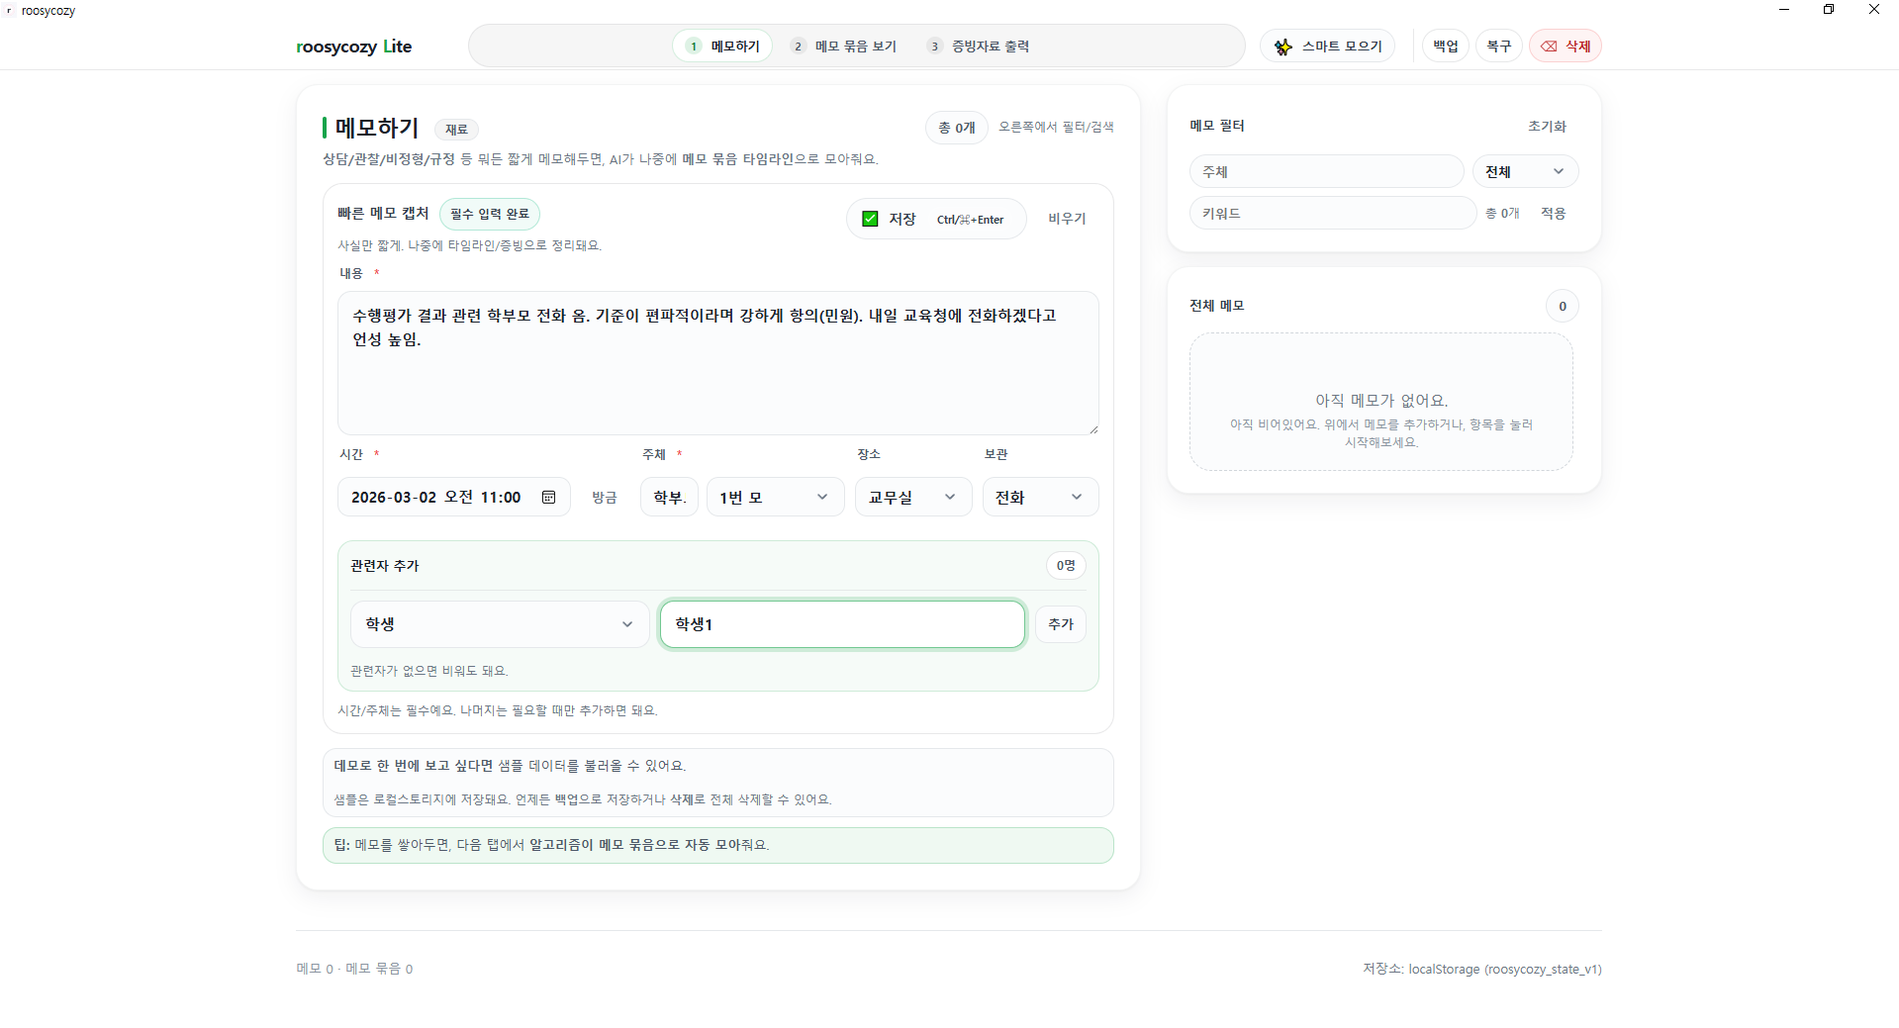
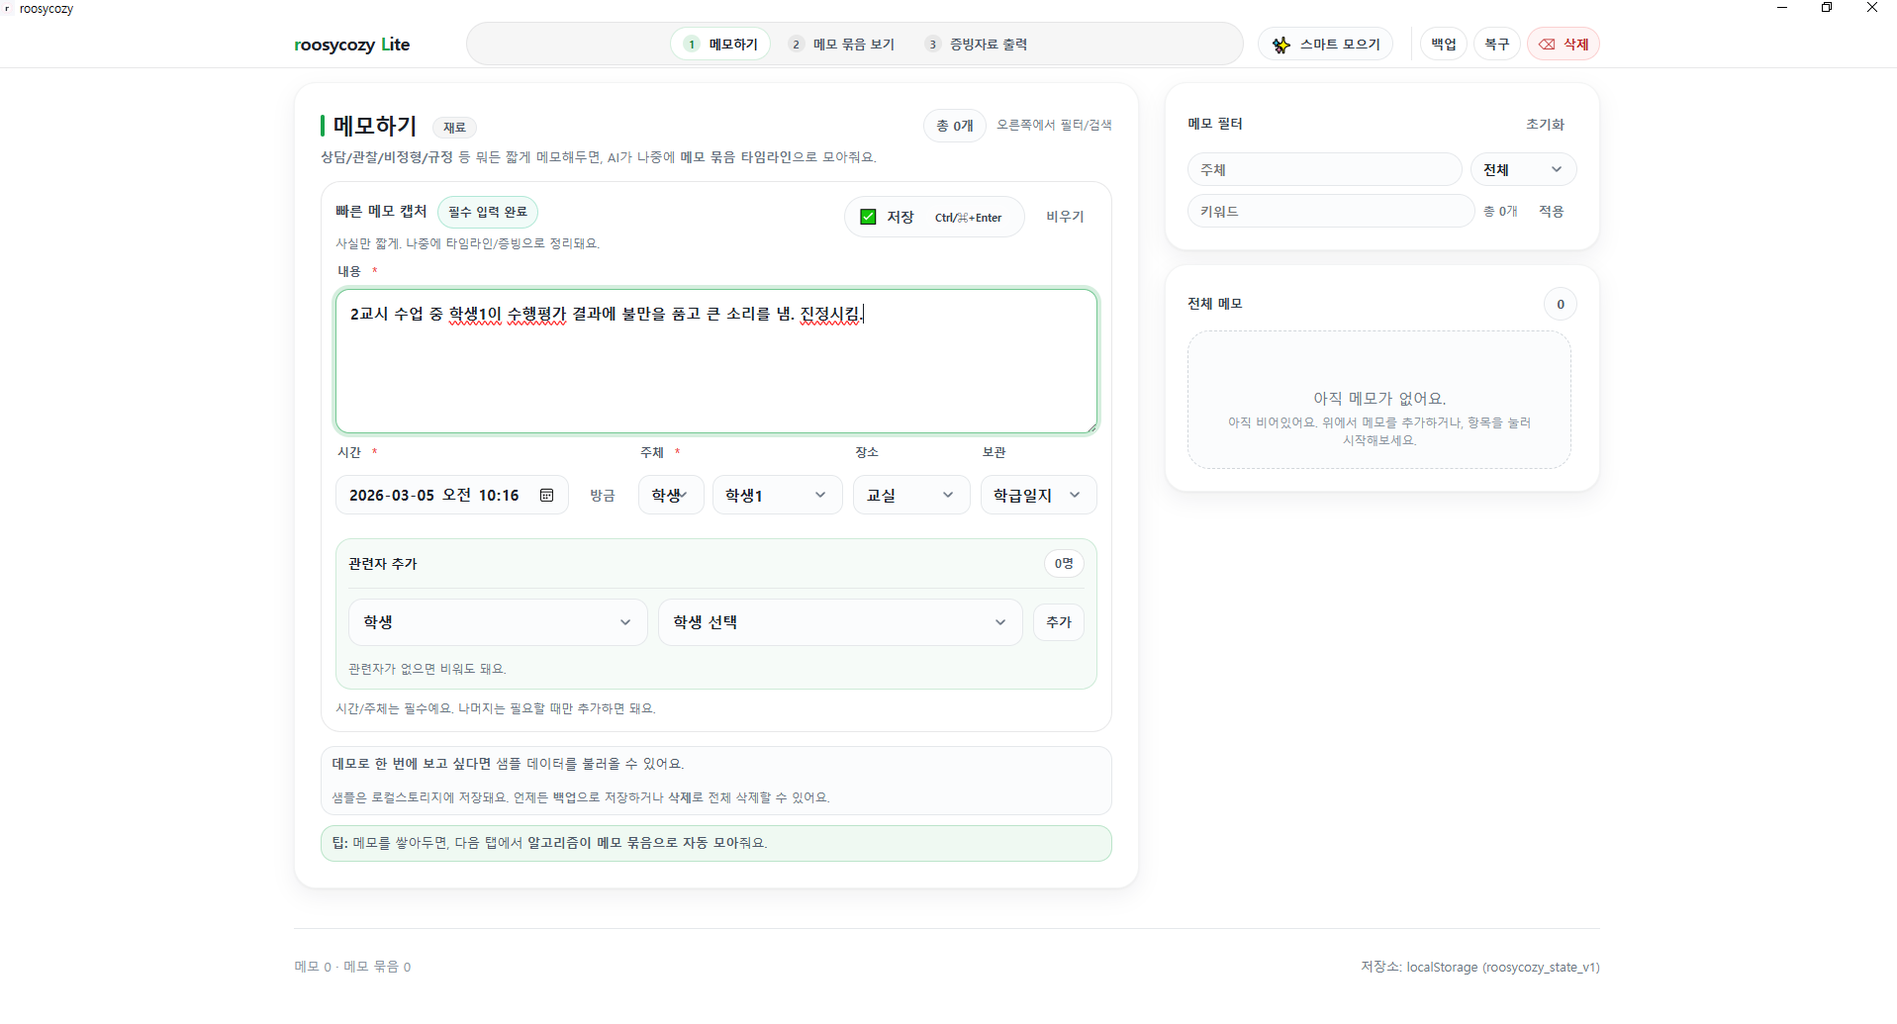
Add files via upload

diff --git a/beta.html b/beta.html
@@ -97,27 +97,21 @@
                 📋 [실전 연습] 이렇게 똑같이 세팅해 보세요!
             </h4>
             <p style="margin: 0 0 15px 0; font-size: 0.9rem; color: #555;">
-                아래 옵션을 설정하고 내용을 복사해서 넣어보세요. 나중에 이 기록이 어떻게 마법처럼 묶이는지 보게 됩니다.
+                사건의 발단이 되는 상황입니다. 아래 옵션을 설정하고 내용을 복사해서 넣어보세요. 나중에 이 기록이 어떻게 마법처럼 묶이는지 보게 됩니다.
             </p>
             <div style="background: #fff; border: 1px solid #ffe082; padding: 15px; border-radius: 8px; font-size: 0.95rem; color: #333;">
                 <div style="margin-bottom: 8px;">
-                    <strong>👤 주체:</strong> 학부모 ➔ <b>'1번 모'</b> 선택 
-                    <span style="font-size:0.8rem; color:#888; margin-left:5px;">(누구의 부모님인지 정확히!)</span>
+                    <strong>👤 주체:</strong> 학생 ➔ <b>'학생1'</b> 선택 
                 </div>
                 <div style="margin-bottom: 8px;">
-                    <strong>📍 장소:</strong> <b>'교무실'</b> 선택 
-                    <span style="font-size:0.8rem; color:#888; margin-left:5px;">(사건이 일어난 장소를 골라주세요)</span>
+                    <strong>📍 장소:</strong> <b>'교실'</b> 선택 
                 </div>
                 <div style="margin-bottom: 8px;">
-                    <strong>📁 보관:</strong> <b>'전화'</b> 선택 
-                    <span style="font-size:0.8rem; color:#888; margin-left:5px;">(어떤 형태의 증빙자료인지 골라주세요)</span>
-                </div>
-                <div style="margin-bottom: 8px;">
-                    <strong>👥 관련자 추가:</strong> 학생 ➔ <b>'학생1'</b> 추가
+                    <strong>📁 보관:</strong> <b>'학급일지'</b> 선택 
                 </div>
                 <div><strong>📝 내용 (복사하세요):</strong><br>
                     <div style="margin-top: 5px; padding: 12px; background: #fafafa; border-radius: 6px; border: 1px solid #eee; font-family: 'Malgun Gothic', sans-serif; line-height: 1.5; color: #000;">
-                        수행평가 결과 관련 학부모 전화 옴. 기준이 편파적이라며 강하게 항의(민원). 내일 교육청에 전화하겠다고 언성 높임.
+                        2교시 수업 중 학생1이 수행평가 결과에 불만을 품고 큰 소리를 냄. 진정시킴.
                     </div>
                 </div>
             </div>
@@ -154,21 +148,22 @@
         <div id="part-2-3" style="display: none; border-top: 1px solid #eee; padding-top: 30px; margin-top: 30px;">
             <h3 style="font-size: 1.1rem; margin-bottom: 15px; color: #444; font-weight: 700;">3. 📌 [추가 미션] 같은 방식으로 2개 더 남겨보기</h3>
             <p style="color: #555; font-size: 0.95rem; margin-bottom: 20px;">
-                첫 번째 기록을 완료하셨습니다. 나중에 AI가 <b>주체가 다른 기록들을 어떻게 하나의 사건으로 묶어내는지</b> 확인하기 위해, 아래 두 가지 상황도 마저 입력해 보세요.<br>
-                <span style="font-size: 0.85rem; color: #888;">(※ 바로 다음 미션으로 넘어가도 무방합니다.)</span>
+                첫 번째 기록을 완료하셨습니다. 나중에 AI가 <b>주체가 다른 기록들을 어떻게 하나의 사건으로 묶어내는지</b> 확인하기 위해, 이어지는 두 가지 상황도 마저 입력해 보세요.<br>
+                <!-- <span style="font-size: 0.85rem; color: #888;">(※ 바로 다음 미션으로 넘어가도 무방합니다.)</span> -->
             </p>
 
             <div style="background: #fff8e1; border: 1px solid #ffca28; border-radius: 12px; padding: 20px; text-align: left; margin-bottom: 20px;">
                 <h4 style="margin: 0 0 10px 0; font-size: 1rem; color: #f57f17; font-weight: 800;">
-                    [메모 A: 사건 발단]
+                    [메모 A: 학부모 전화 항의]
                 </h4>
                 <div style="background: #fff; border: 1px solid #ffe082; padding: 15px; border-radius: 8px; font-size: 0.95rem; color: #333;">
-                    <div style="margin-bottom: 8px;"><strong>👤 주체:</strong> 학생 ➔ <b>'학생1'</b> 선택</div>
-                    <div style="margin-bottom: 8px;"><strong>📍 장소:</strong> <b>'교실'</b> 선택</div>
-                    <div style="margin-bottom: 8px;"><strong>📁 보관:</strong> <b>'학급일지'</b> 선택</div>
+                    <div style="margin-bottom: 8px;"><strong>👤 주체:</strong> 학부모 ➔ <b>'1번 모'</b> 선택 <span style="font-size:0.8rem; color:#888; margin-left:5px;">(누구의 부모님인지 정확히!)</span></div>
+                    <div style="margin-bottom: 8px;"><strong>📍 장소:</strong> <b>'교무실'</b> 선택</div>
+                    <div style="margin-bottom: 8px;"><strong>📁 보관:</strong> <b>'전화'</b> 선택</div>
+                    <div style="margin-bottom: 8px;"><strong>👥 관련자 추가:</strong> 학생 ➔ <b>'학생1'</b> 추가 <span style="font-size:0.8rem; color:#d32f2f; font-weight:bold;">(★가장 중요!)</span></div>
                     <div><strong>📝 내용 (복사하세요):</strong><br>
                         <div style="margin-top: 5px; padding: 12px; background: #fafafa; border-radius: 6px; border: 1px solid #eee; font-family: 'Malgun Gothic', sans-serif; line-height: 1.5; color: #000;">
-                            2교시 수업 중 학생1이 수행평가 결과에 불만을 품고 큰 소리를 냄. 진정시킴.
+                            수행평가 결과 관련 학부모 전화 옴. 기준이 편파적이라며 강하게 항의(민원). 내일 교육청에 전화하겠다고 언성 높임.
                         </div>
                     </div>
                 </div>
@@ -176,7 +171,7 @@
 
             <div style="background: #fff8e1; border: 1px solid #ffca28; border-radius: 12px; padding: 20px; text-align: left; margin-bottom: 20px;">
                 <h4 style="margin: 0 0 10px 0; font-size: 1rem; color: #f57f17; font-weight: 800;">
-                    [메모 B: 후속 조치]
+                    [메모 B: 관리자 보고]
                 </h4>
                 <div style="background: #fff; border: 1px solid #ffe082; padding: 15px; border-radius: 8px; font-size: 0.95rem; color: #333;">
                     <div style="margin-bottom: 8px;"><strong>👤 주체:</strong> 관리자 ➔ <b>'교감'</b> 선택</div>
@@ -193,8 +188,8 @@
 
             <div id="mission-box-2-3" class="check-mission-box" onclick="togglePart(2, 3)">
                 <div class="mission-info">
-                    <strong>☑ 추가 미션까지 모두 입력했나요?</strong>
-                    <div style="font-size:0.85rem; color:#888;">입력했다면 클릭해주세요. (건너뛰어도 무방합니다)</div>
+                    <strong>☑ 추가 메모까지 모두 입력했나요?</strong>
+                    <div style="font-size:0.85rem; color:#888;">입력했다면 클릭해주세요. </div>
                 </div>
                 <div class="check-circle">✔</div>
             </div>
@@ -208,15 +203,175 @@
 
     <div id="step-3" class="mission-card">
         <div class="step-badge">STEP 03</div>
-        <h2 class="mission-title">AI 스마트 메모</h2>
-        <p class="mission-desc">다음 미션 내용이 들어갈 자리입니다.</p>
-        <button class="btn-next active" onclick="nextStep(4)">다음 미션으로 이동 →</button>
+        <h2 class="mission-title">흩어진 기록을 한 곳으로</h2>
+        <p class="mission-desc" style="margin-bottom: 30px;">
+            메모가 아무리 많아도 걱정 없습니다.<br>
+            <strong>'스마트 메모 모으기'</strong>가 AI처럼 관련 기록을 찰떡같이 묶어줍니다.
+        </p>
+
+        <div id="part-3-1">
+            <h3 style="font-size: 1.1rem; margin-bottom: 15px; color: #444; font-weight: 700;">1. 기능 실행하기</h3>
+            <p style="color: #666; font-size: 0.95rem; margin-bottom: 15px;">
+                상단 메뉴에서 <b>[2. 메모 묶음 보기]</b> 탭으로 이동 후,<br>
+                화면에 보이는 <strong>[✨ 스마트 모으기]</strong> 버튼(빨간 박스 중 아무거나)을 클릭하세요.
+            </p>
+            <div class="zoom-container">
+                <img src="스마트 모으기 1.png" alt="스마트 모으기 버튼 클릭">
+            </div>
+            <div id="mission-box-3-1" class="check-mission-box" onclick="togglePart(3, 1)">
+                <div class="mission-info">
+                    <strong>👆 모으기 창을 띄우셨나요?</strong>
+                    <div style="font-size:0.85rem; color:#888;">창이 떴다면 클릭해주세요.</div>
+                </div>
+                <div class="check-circle">✔</div>
+            </div>
+        </div>
+
+        <div id="part-3-2" style="display: none; border-top: 1px solid #eee; padding-top: 30px; margin-top: 30px;">
+            <h3 style="font-size: 1.1rem; margin-bottom: 10px; color: #444; font-weight: 700;">2. AI에게 단서 주기 (★마법의 순간)</h3>
+            
+            <p style="color: #444; margin-bottom: 12px; font-weight: 600; font-size: 0.9rem; letter-spacing: -0.5px; word-break: keep-all;">
+                👇 방금 입력한 3개의 기록을 한 번에 불러옵니다. 아래 정답지처럼 딱 2가지만 입력해 보세요!
+            </p>
+
+            <div style="background: #e3f2fd; border: 1px solid #90caf9; border-radius: 12px; padding: 15px; text-align: left; margin-bottom: 15px;">
+                <h4 style="margin: 0 0 10px 0; font-size: 1rem; color: #1565c0; font-weight: 800;">
+                    🎯 [정답지] 이렇게 세팅하고 모아보세요!
+                </h4>
+                <div style="background: #fff; border: 1px solid #bbdefb; padding: 12px; border-radius: 8px; font-size: 0.9rem; color: #333;">
+                    
+                    <div style="margin-bottom: 10px;">
+                        <strong style="color:#1976d2;">① 누구의 기록을 모을까요? (필수)</strong><br>
+                        ➔ <b>[학생] - [학생1]</b> 선택 후 <b>[추가]</b> 버튼 꾹!<br>
+                        <div style="background:#f0f7ff; border-left: 3px solid #1976d2; padding:6px 10px; margin-top:4px; font-size:0.85rem; color:#444;">
+                            💡 <b>AI의 마법:</b> '학생1'만 골라도 AI가 학부모/교감 기록 등 곁가지 기록까지 싹 다 추적해 옵니다.
+                        </div>
+                    </div>
+                    
+                    <div style="margin-bottom: 10px;">
+                        <strong style="color:#1976d2;">② 어떤 사건인가요? (요약/키워드)</strong><br>
+                        ➔ <b>수행평가 민원</b> (이라고만 치세요)<br>
+                        <div style="background:#f0f7ff; border-left: 3px solid #1976d2; padding:6px 10px; margin-top:4px; font-size:0.85rem; color:#444;">
+                            💡 <b>AI의 마법:</b> 메모에 넣었던 핵심 단어들이 강력한 자석이 되어 흩어진 퍼즐을 쫙 맞춰줍니다.
+                        </div>
+                    </div>
+
+                    <div>
+                        <strong style="color:#1976d2;">③ 옵션 (제목 설정)</strong><br>
+                        ➔ <b>'옵션: 기간 및 제목 직접 설정'</b>을 클릭해서 창을 여세요.<br>
+                        ➔ 제목에 <b>학생1 수행평가 민원 대응</b> 적고 <b>[메모 모으기 시작]</b> 클릭!
+                    </div>
+
+                </div>
+            </div>
+
+            <div class="zoom-container" style="margin-bottom: 15px;">
+                <img src="스마트 모으기 2.png" alt="조건 입력 화면">
+            </div>
+            
+            <div id="mission-box-3-2" class="check-mission-box" onclick="togglePart(3, 2)">
+                <div class="mission-info">
+                    <strong>✍ 정답지대로 세팅하고 모으기 시작을 눌렀나요?</strong>
+                    <div style="font-size:0.85rem; color:#888;">세팅을 마쳤다면 클릭해주세요.</div>
+                </div>
+                <div class="check-circle">✔</div>
+            </div>
+        </div>
+
+        <div id="part-3-3" style="display: none; border-top: 1px solid #eee; padding-top: 30px; margin-top: 30px;">
+            <h3 style="font-size: 1.1rem; margin-bottom: 15px; color: #444; font-weight: 700;">3. 생성 완료!</h3>
+            <p style="color: #666; margin-bottom: 15px; font-size: 0.95rem;">
+                짜잔! <strong>교실 소란, 학부모 전화, 교감 보고</strong>라는 3개의 흩어진 기록이<br>
+                시간 순서대로 완벽하게 하나의 사건으로 묶였습니다.
+            </p>
+
+            <div style="background: #fff8e1; border-left: 4px solid #f57f17; padding: 12px 15px; margin-bottom: 15px; border-radius: 0 8px 8px 0; font-size: 0.9rem; color: #555;">
+                👇 <b>확인 꿀팁:</b> 왼쪽의 타임라인 영역을 <b>아래로 스크롤(마우스 휠 굴리기)</b> 해보세요! 오전에 있었던 교실 소란부터 교감선생님 보고까지 3개의 기록이 모두 엮여있는 모습을 확인하실 수 있습니다.
+            </div>
+
+            <div class="zoom-container" style="margin-bottom: 15px;">
+                <img src="스마트 모으기 3.png" alt="결과 화면">
+            </div>
+            
+            <div id="mission-box-3-3" class="check-mission-box" onclick="togglePart(3, 3)">
+                <div class="mission-info">
+                    <strong>🎉 스크롤을 내려서 3개의 메모가 묶인 걸 모두 확인했나요?</strong>
+                    <div style="font-size:0.85rem; color:#888;">확인했다면 클릭해주세요.</div>
+                </div>
+                <div class="check-circle">✔</div>
+            </div>
+            
+            <button id="btn-next-3" class="btn-next" onclick="nextStep(4)" style="display: none; margin-top: 20px;">
+                마지막 미션(증빙 출력)으로 이동 →
+            </button>
+        </div>
     </div>
 
     <div id="step-4" class="mission-card">
         <div class="step-badge">STEP 04</div>
         <h2 class="mission-title">증빙자료 출력</h2>
-        <button class="btn-next active" onclick="alert('모든 미션 완료! 고생하셨습니다.')">최종 완료</button>
+        <p class="mission-desc" style="margin-bottom: 30px;">
+            로지코지의 핵심은 <b>'선생님의 안전'</b>입니다.<br>
+            모아둔 기록을 클릭 한 번에 공문서 수준의 <b>사건 보고서(PDF)</b>로 출력해 보세요.
+        </p>
+
+        <div id="part-4-1">
+            <h3 style="font-size: 1.1rem; margin-bottom: 15px; color: #444; font-weight: 700;">1. 출력할 묶음 선택하기</h3>
+            <p style="color: #666; font-size: 0.95rem; margin-bottom: 15px;">
+                상단 메뉴에서 <b>[3. 증빙자료 출력]</b> 탭으로 이동하세요.<br>
+                화면 가운데에 뜨는 우리가 방금 만든 <strong>'학생1 수행평가 민원 대응'</strong> 묶음을 클릭해 줍니다.
+            </p>
+            <div class="zoom-container" style="margin-bottom: 15px;">
+                <img src="증빙자료 출력 1.png" alt="출력할 묶음 선택">
+            </div>
+            <div id="mission-box-4-1" class="check-mission-box" onclick="togglePart(4, 1)">
+                <div class="mission-info">
+                    <strong>🖨 출력할 메모 묶음을 클릭하셨나요?</strong>
+                    <div style="font-size:0.85rem; color:#888;">선택했다면 체크해주세요.</div>
+                </div>
+                <div class="check-circle">✔</div>
+            </div>
+        </div>
+
+        <div id="part-4-2" style="display: none; border-top: 1px solid #eee; padding-top: 30px; margin-top: 30px;">
+            <h3 style="font-size: 1.1rem; margin-bottom: 15px; color: #444; font-weight: 700;">2. PDF로 저장하기</h3>
+            <p style="color: #666; margin-bottom: 15px; font-size: 0.95rem;">
+                사건의 경위와 로그가 깔끔하게 정리된 보고서 미리보기가 나타납니다.<br>
+                우측 상단의 <strong>[PDF로 저장]</strong> 녹색 버튼을 클릭하세요!
+            </p>
+            <div class="zoom-container" style="margin-bottom: 15px;">
+                <img src="증빙자료 출력 2.png" alt="PDF 저장 버튼 클릭">
+            </div>
+            <div id="mission-box-4-2" class="check-mission-box" onclick="togglePart(4, 2)">
+                <div class="mission-info">
+                    <strong>💾 PDF로 저장을 완료하셨나요?</strong>
+                    <div style="font-size:0.85rem; color:#888;">저장했다면 체크해주세요.</div>
+                </div>
+                <div class="check-circle">✔</div>
+            </div>
+        </div>
+
+        <div id="part-4-3" style="display: none; border-top: 1px solid #eee; padding-top: 30px; margin-top: 30px;">
+            <h3 style="font-size: 1.1rem; margin-bottom: 15px; color: #444; font-weight: 700;">3. 최종 보고서 확인</h3>
+            <p style="color: #666; margin-bottom: 15px; font-size: 0.95rem;">
+                저장된 <strong>사건 보고서 PDF 파일</strong>을 열어보세요.<br>
+                이 문서 하나면 어떠한 소명 요구에도 완벽하게 대처할 수 있습니다.
+            </p>
+            <div class="zoom-container" style="margin-bottom: 15px;">
+                <img src="증빙자료 출력 3.png" alt="최종 PDF 파일 확인">
+            </div>
+            <div id="mission-box-4-3" class="check-mission-box" onclick="togglePart(4, 3)">
+                <div class="mission-info">
+                    <strong>🎉 최종 PDF 파일까지 모두 확인하셨나요?</strong>
+                    <div style="font-size:0.85rem; color:#888;">수고하셨습니다! 클릭해주세요.</div>
+                </div>
+                <div class="check-circle">✔</div>
+            </div>
+
+            <button id="btn-next-4" class="btn-action" onclick="alert('🏆 로지코지 베타 테스트의 모든 미션을 완벽하게 클리어하셨습니다! 소중한 시간을 내어주셔서 진심으로 감사드립니다.')" style="display: none; margin-top: 40px; width: 100%;">
+                🏆 모든 미션 완료! (수고하셨습니다)
+            </button>
+        </div>
     </div>
 
 
@@ -272,42 +427,17 @@
                 btn.disabled = true;
             }
         }
-
-        // 6. 파트별 토글 (STEP 2 상세 미션 용)
-        function togglePart(stepNum, partNum) {
-            const box = document.getElementById(`mission-box-${stepNum}-${partNum}`);
-            box.classList.toggle('checked');
-            
-            if(box.classList.contains('checked')) {
-                if(partNum === 1) {
-                    const nextPart = document.getElementById(`part-${stepNum}-2`);
-                    if(nextPart) {
-                        nextPart.style.display = 'block';
-                        nextPart.scrollIntoView({ behavior: 'smooth', block: 'start' });
-                    }
-                }
-                else if(partNum === 2) {
-                    const nextBtn = document.getElementById(`btn-next-${stepNum}`);
-                    if(nextBtn) {
-                        nextBtn.style.display = 'block';
-                        nextBtn.classList.add('active');
-                        nextBtn.disabled = false;
-                        nextBtn.scrollIntoView({ behavior: 'smooth', block: 'center' });
-                    }
-                }
-            }
-        }
         
-        // 7. STEP 02 인트로 -> 상세 미션 전환
+        // 6. STEP 02 인트로 -> 상세 미션 전환
         function showStep2Detail() {
-            document.getElementById('step-2').classList.remove('active'); // 버그 수정 포인트!
+            document.getElementById('step-2').classList.remove('active'); 
             document.getElementById('step-2-detail').classList.add('active');
     
             document.getElementById('progress-bar').style.width = '40%';
             window.scrollTo({ top: 0, behavior: 'smooth' });
         }
 
-        // 6. 파트별 토글 (자동으로 다음 파트를 찾아 여는 스마트 버전)
+        // 7. 파트별 토글 (자동으로 다음 파트를 찾아 여는 스마트 버전)
         function togglePart(stepNum, partNum) {
             const box = document.getElementById(`mission-box-${stepNum}-${partNum}`);
             box.classList.toggle('checked');
@@ -328,7 +458,7 @@
                 }
             }
         }
-        
+
     </script>
 </body>
 </html>

diff --git a/beta.css b/beta.css
@@ -141,6 +141,9 @@ body {
     border-radius: 12px;
     border: 1px solid #eee;
     background: #fff;
+
+    transform-origin: center bottom; /* 확대의 기준점을 '중앙 하단'으로 고정 */
+
     /* 크기와 그림자가 0.3초 동안 부드럽게 변하도록 설정 */
     transition: transform 0.3s ease-in-out, box-shadow 0.3s ease-in-out;
     position: relative;
